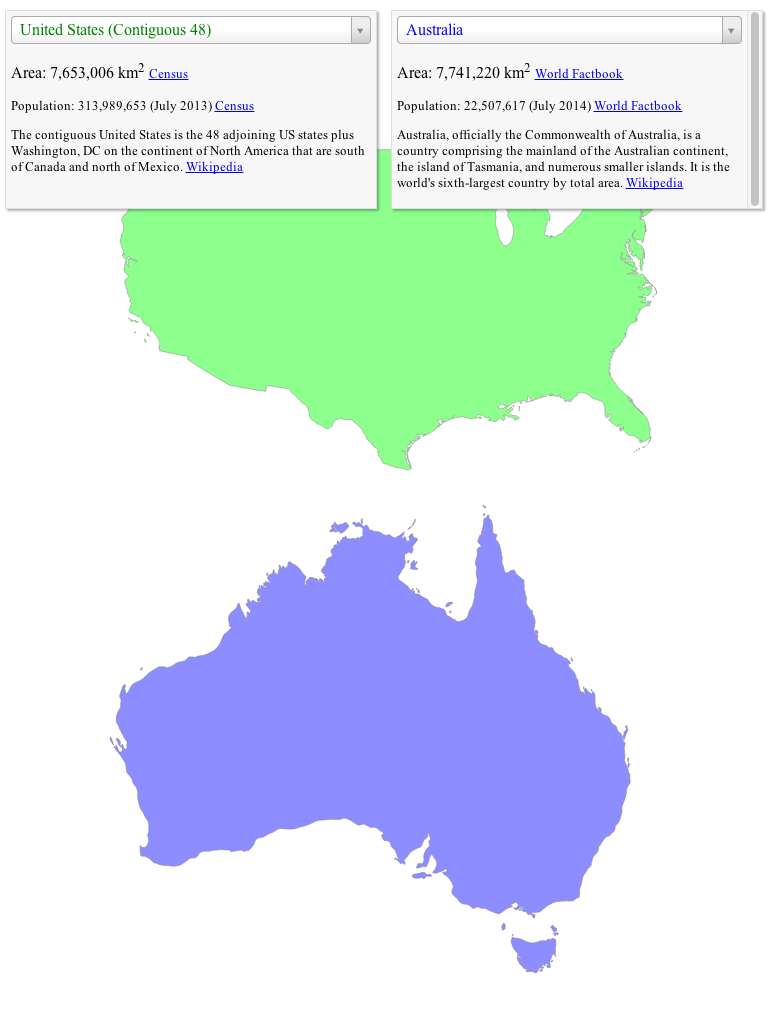
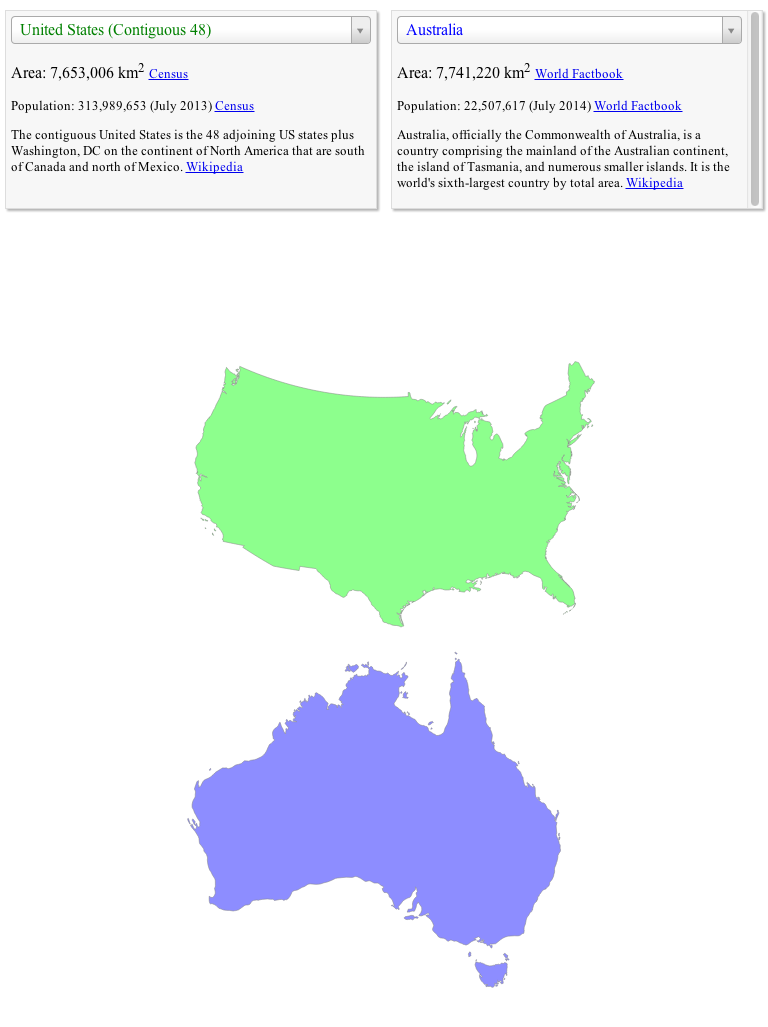
fix responsive tablet portrait bug

diff --git a/comparea/static/css/comparea.css b/comparea/static/css/comparea.css
@@ -72,7 +72,7 @@ html,body{
     display: none;
   }
 }
-@media only screen and (max-width: 768px) and (max-height: 800px) and (orientation: portrait){
+@media only screen and (max-width: 320px) and (max-height: 800px) {
   /* This covers phones in portrait */
   #sidebar {
     left: 0;
@@ -104,6 +104,7 @@ html,body{
     height: 100%;
   }
   #svg-container {
+    top: 290px;
     right: 0;
   }
 }
